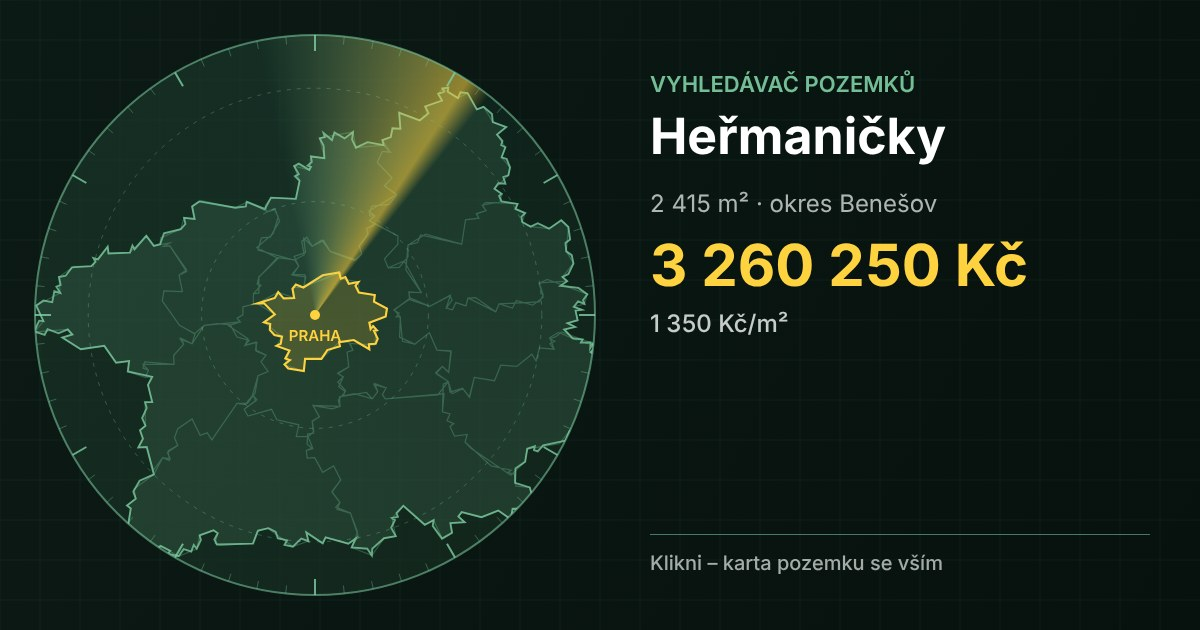
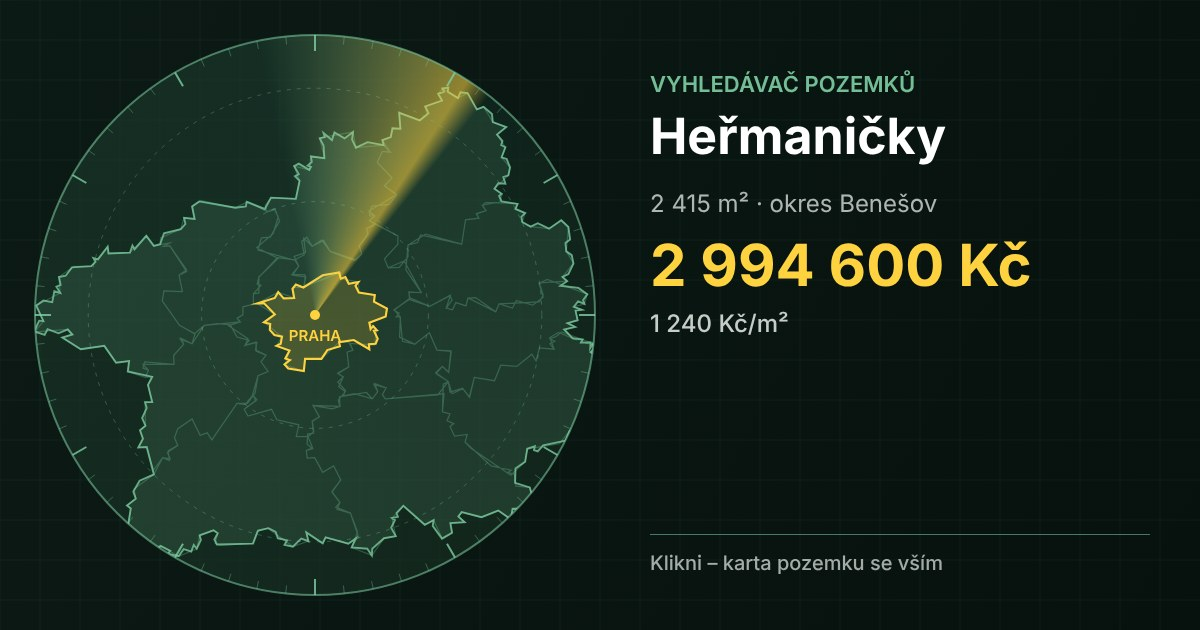
Obnova náhledů 19. 11. 2026: 3 pozemky se změněnými údaji
Claude-Session: https://claude.ai/code/session_01MoaZpwJieQugdyTZZ3RK1K

Changed region(s): [[0.5242, 0.3619, 0.8633, 0.4524], [0.555, 0.4825, 0.5858, 0.5429], [0.6167, 0.5127, 0.6475, 0.5429]]

diff --git a/k/rk-mlada-boleslav__roin-stavebne-obchodni-spolecnost-spol-s-r-o-nemyslovice-978.html b/k/rk-mlada-boleslav__roin-stavebne-obchodni-spolecnost-spol-s-r-o-nemyslovice-978.html
@@ -1,8 +1,8 @@
 <!doctype html><html lang="cs"><head><meta charset="utf-8"><meta name="viewport" content="width=device-width,initial-scale=1">
 <title>Nemyslovice · Vyhledávač pozemků</title><meta name="description" content="978 m² · 1 780 000 Kč · okres Mladá Boleslav · 39 km od Prahy">
 <meta property="og:type" content="website"><meta property="og:site_name" content="Vyhledávač pozemků"><meta property="og:title" content="Nemyslovice · Vyhledávač pozemků"><meta property="og:description" content="978 m² · 1 780 000 Kč · okres Mladá Boleslav · 39 km od Prahy">
-<meta property="og:image" content="https://tommygee-claude.github.io/karta/k/rk-mlada-boleslav__roin-stavebne-obchodni-spolecnost-spol-s-r-o-nemyslovice-978.jpg?v=mw89dpvd"><meta property="og:image:width" content="1200"><meta property="og:image:height" content="630"><meta property="og:url" content="https://tommygee-claude.github.io/karta/k/rk-mlada-boleslav__roin-stavebne-obchodni-spolecnost-spol-s-r-o-nemyslovice-978.html">
-<meta name="twitter:card" content="summary_large_image"><meta name="twitter:image" content="https://tommygee-claude.github.io/karta/k/rk-mlada-boleslav__roin-stavebne-obchodni-spolecnost-spol-s-r-o-nemyslovice-978.jpg?v=mw89dpvd">
+<meta property="og:image" content="https://tommygee-claude.github.io/karta/k/rk-mlada-boleslav__roin-stavebne-obchodni-spolecnost-spol-s-r-o-nemyslovice-978.jpg?v=mwn1n6kr"><meta property="og:image:width" content="1200"><meta property="og:image:height" content="630"><meta property="og:url" content="https://tommygee-claude.github.io/karta/k/rk-mlada-boleslav__roin-stavebne-obchodni-spolecnost-spol-s-r-o-nemyslovice-978.html">
+<meta name="twitter:card" content="summary_large_image"><meta name="twitter:image" content="https://tommygee-claude.github.io/karta/k/rk-mlada-boleslav__roin-stavebne-obchodni-spolecnost-spol-s-r-o-nemyslovice-978.jpg?v=mwn1n6kr">
 <meta http-equiv="refresh" content="0;url=https://claude.ai/artifact/LPUksfypRdYod6b5fz7vpv#karta-rk-mlada-boleslav__roin-stavebne-obchodni-spolecnost-spol-s-r-o-nemyslovice-978">
 <style>body{margin:0;background:#0c1a15;color:#e7ece8;font:16px -apple-system,Segoe UI,Roboto,Arial,sans-serif;display:grid;place-items:center;min-height:100vh}a{color:#ffd23f}</style>
 <script>(function(){var c="https://claude.ai/artifact/LPUksfypRdYod6b5fz7vpv#karta-rk-mlada-boleslav__roin-stavebne-obchodni-spolecnost-spol-s-r-o-nemyslovice-978";if(!c){var m=location.search.match(/[?&]k=([A-Za-z0-9._~-]{1,200})/);c="https://claude.ai/artifact/LPUksfypRdYod6b5fz7vpv"+(m?'#karta-'+m[1]:'')}location.replace(c)})()</script>

diff --git a/k/idnes-6aa90239b79b7c7224076c69.html b/k/idnes-6aa90239b79b7c7224076c69.html
@@ -1,8 +1,8 @@
 <!doctype html><html lang="cs"><head><meta charset="utf-8"><meta name="viewport" content="width=device-width,initial-scale=1">
-<title>Heřmaničky · Vyhledávač pozemků</title><meta name="description" content="2 415 m² · 3 260 250 Kč · okres Benešov">
-<meta property="og:type" content="website"><meta property="og:site_name" content="Vyhledávač pozemků"><meta property="og:title" content="Heřmaničky · Vyhledávač pozemků"><meta property="og:description" content="2 415 m² · 3 260 250 Kč · okres Benešov">
-<meta property="og:image" content="https://tommygee-claude.github.io/karta/k/idnes-6aa90239b79b7c7224076c69.jpg?v=mw89dpnw"><meta property="og:image:width" content="1200"><meta property="og:image:height" content="630"><meta property="og:url" content="https://tommygee-claude.github.io/karta/k/idnes-6aa90239b79b7c7224076c69.html">
-<meta name="twitter:card" content="summary_large_image"><meta name="twitter:image" content="https://tommygee-claude.github.io/karta/k/idnes-6aa90239b79b7c7224076c69.jpg?v=mw89dpnw">
+<title>Heřmaničky · Vyhledávač pozemků</title><meta name="description" content="2 415 m² · 2 994 600 Kč · okres Benešov">
+<meta property="og:type" content="website"><meta property="og:site_name" content="Vyhledávač pozemků"><meta property="og:title" content="Heřmaničky · Vyhledávač pozemků"><meta property="og:description" content="2 415 m² · 2 994 600 Kč · okres Benešov">
+<meta property="og:image" content="https://tommygee-claude.github.io/karta/k/idnes-6aa90239b79b7c7224076c69.jpg?v=mwn1n6ju"><meta property="og:image:width" content="1200"><meta property="og:image:height" content="630"><meta property="og:url" content="https://tommygee-claude.github.io/karta/k/idnes-6aa90239b79b7c7224076c69.html">
+<meta name="twitter:card" content="summary_large_image"><meta name="twitter:image" content="https://tommygee-claude.github.io/karta/k/idnes-6aa90239b79b7c7224076c69.jpg?v=mwn1n6ju">
 <meta http-equiv="refresh" content="0;url=https://claude.ai/artifact/LPUksfypRdYod6b5fz7vpv#karta-idnes-6aa90239b79b7c7224076c69">
 <style>body{margin:0;background:#0c1a15;color:#e7ece8;font:16px -apple-system,Segoe UI,Roboto,Arial,sans-serif;display:grid;place-items:center;min-height:100vh}a{color:#ffd23f}</style>
 <script>(function(){var c="https://claude.ai/artifact/LPUksfypRdYod6b5fz7vpv#karta-idnes-6aa90239b79b7c7224076c69";if(!c){var m=location.search.match(/[?&]k=([A-Za-z0-9._~-]{1,200})/);c="https://claude.ai/artifact/LPUksfypRdYod6b5fz7vpv"+(m?'#karta-'+m[1]:'')}location.replace(c)})()</script>

diff --git a/k/sreality-1188741964.html b/k/sreality-1188741964.html
@@ -1,8 +1,8 @@
 <!doctype html><html lang="cs"><head><meta charset="utf-8"><meta name="viewport" content="width=device-width,initial-scale=1">
 <title>Říčany · Vyhledávač pozemků</title><meta name="description" content="1 595 m² · 7 790 000 Kč · okres Praha-východ · 19 km od Prahy">
 <meta property="og:type" content="website"><meta property="og:site_name" content="Vyhledávač pozemků"><meta property="og:title" content="Říčany · Vyhledávač pozemků"><meta property="og:description" content="1 595 m² · 7 790 000 Kč · okres Praha-východ · 19 km od Prahy">
-<meta property="og:image" content="https://tommygee-claude.github.io/karta/k/sreality-1188741964.jpg?v=mw89dpxs"><meta property="og:image:width" content="1200"><meta property="og:image:height" content="630"><meta property="og:url" content="https://tommygee-claude.github.io/karta/k/sreality-1188741964.html">
-<meta name="twitter:card" content="summary_large_image"><meta name="twitter:image" content="https://tommygee-claude.github.io/karta/k/sreality-1188741964.jpg?v=mw89dpxs">
+<meta property="og:image" content="https://tommygee-claude.github.io/karta/k/sreality-1188741964.jpg?v=mwn1n6li"><meta property="og:image:width" content="1200"><meta property="og:image:height" content="630"><meta property="og:url" content="https://tommygee-claude.github.io/karta/k/sreality-1188741964.html">
+<meta name="twitter:card" content="summary_large_image"><meta name="twitter:image" content="https://tommygee-claude.github.io/karta/k/sreality-1188741964.jpg?v=mwn1n6li">
 <meta http-equiv="refresh" content="0;url=https://claude.ai/artifact/LPUksfypRdYod6b5fz7vpv#karta-sreality-1188741964">
 <style>body{margin:0;background:#0c1a15;color:#e7ece8;font:16px -apple-system,Segoe UI,Roboto,Arial,sans-serif;display:grid;place-items:center;min-height:100vh}a{color:#ffd23f}</style>
 <script>(function(){var c="https://claude.ai/artifact/LPUksfypRdYod6b5fz7vpv#karta-sreality-1188741964";if(!c){var m=location.search.match(/[?&]k=([A-Za-z0-9._~-]{1,200})/);c="https://claude.ai/artifact/LPUksfypRdYod6b5fz7vpv"+(m?'#karta-'+m[1]:'')}location.replace(c)})()</script>
